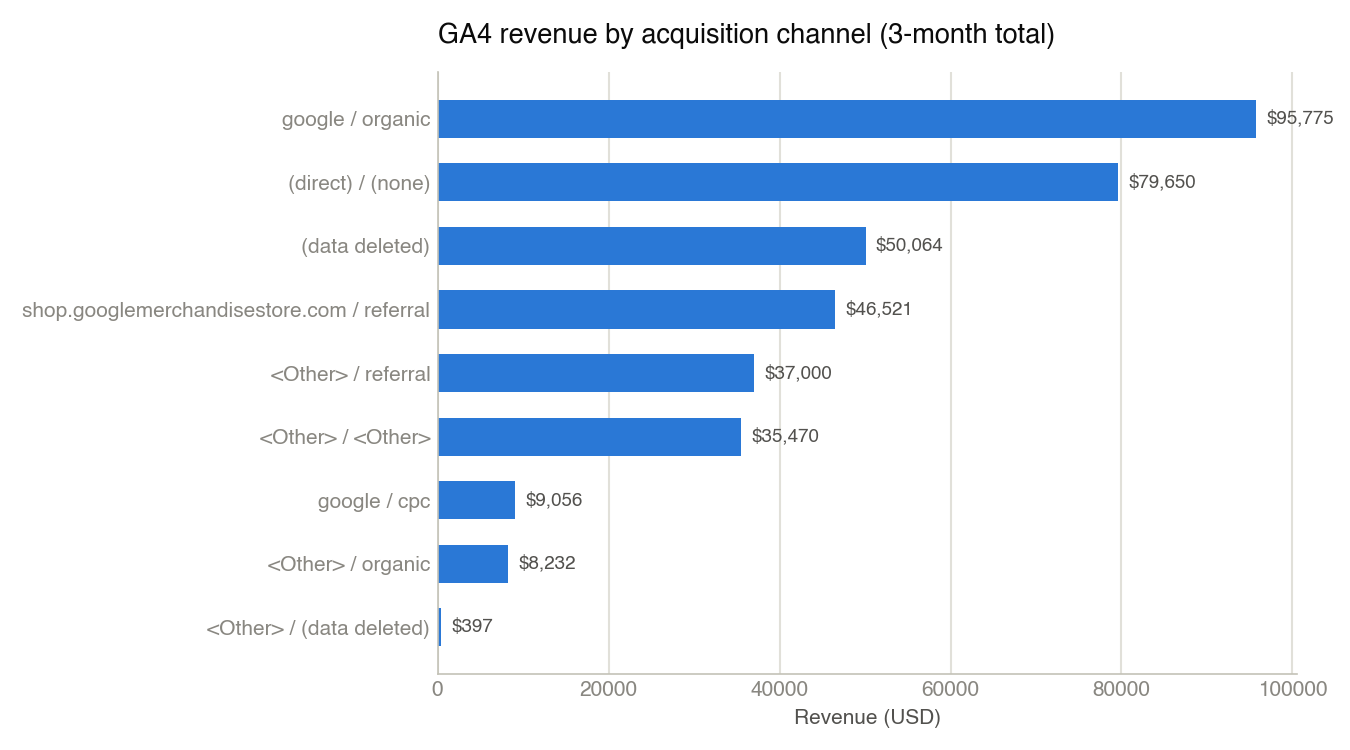
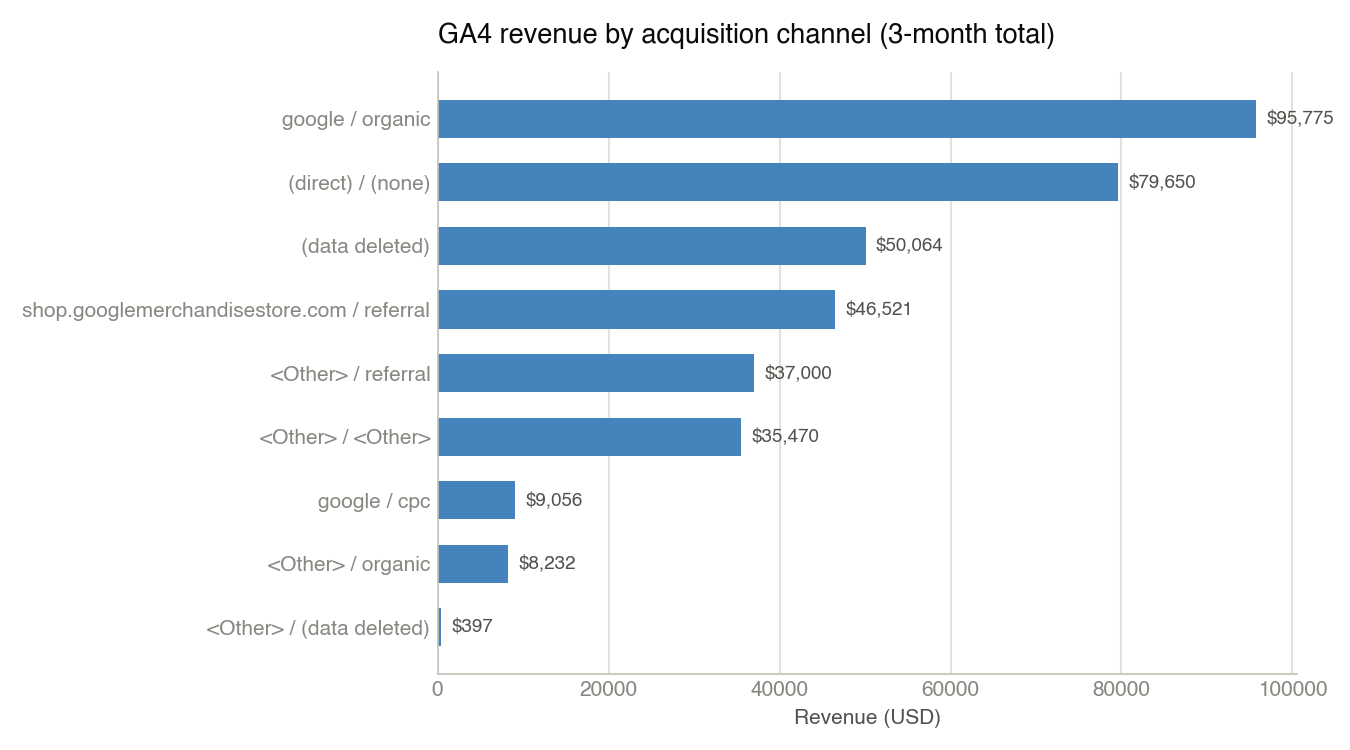
Switch all chart visualizations to a validated Morandi palette
Dusty blue/terracotta/greige replacing the prior saturated blue/red set, in both the matplotlib PNGs (analysis/make_charts.py) and the HTML dashboard's CSS tokens + SVG chart fills. Every color pair that appears together on a chart was checked against the dataviz skill's six-check validator (chroma floor, CVD separation, normal-vision floor, contrast) for both light and dark mode.

diff --git a/dashboard/index.html b/dashboard/index.html
@@ -15,13 +15,13 @@
     --ink-muted: #848d9c;
     --border: #dee2e8;
     --border-strong: #c5cbd4;
-    --accent: #2a78d6;
+    --accent: #2b6aa1;
     --accent-ink: #ffffff;
-    --accent-wash: #e7f0fc;
-    --red: #d03b3b;
-    --red-wash: #fbe9e9;
-    --blue-light: #9ec5f4;
-    --gray-mid: #c3c2b7;
+    --accent-wash: #e6f1fb;
+    --red: #914337;
+    --red-wash: #faeae6;
+    --blue-light: #70afea;
+    --gray-mid: #c5bcb1;
     --shadow: 0 1px 2px rgba(18,21,27,0.06), 0 4px 16px rgba(18,21,27,0.06);
     --radius: 10px;
     color-scheme: light;
@@ -36,13 +36,13 @@
       --ink-muted: #6d7686;
       --border: #262c38;
       --border-strong: #333b4a;
-      --accent: #5798e8;
+      --accent: #5b99d3;
       --accent-ink: #0b1220;
-      --accent-wash: #17263b;
-      --red: #e6716f;
-      --red-wash: #331c1d;
-      --blue-light: #3b5b82;
-      --gray-mid: #3a3f47;
+      --accent-wash: #162737;
+      --red: #ca7765;
+      --red-wash: #311e1a;
+      --blue-light: #335d83;
+      --gray-mid: #433e37;
       --shadow: 0 1px 2px rgba(0,0,0,0.3), 0 8px 24px rgba(0,0,0,0.35);
       color-scheme: dark;
     }
@@ -56,13 +56,13 @@
     --ink-muted: #6d7686;
     --border: #262c38;
     --border-strong: #333b4a;
-    --accent: #5798e8;
+    --accent: #5b99d3;
     --accent-ink: #0b1220;
-    --accent-wash: #17263b;
-    --red: #e6716f;
-    --red-wash: #331c1d;
-    --blue-light: #3b5b82;
-    --gray-mid: #3a3f47;
+    --accent-wash: #162737;
+    --red: #ca7765;
+    --red-wash: #311e1a;
+    --blue-light: #335d83;
+    --gray-mid: #433e37;
     --shadow: 0 1px 2px rgba(0,0,0,0.3), 0 8px 24px rgba(0,0,0,0.35);
     color-scheme: dark;
   }
@@ -522,8 +522,11 @@
     });
   }
 
-  const BLUE = "#2a78d6", BLUE_DARK = "#1c5cab", BLUE_MID = "#5598e7", BLUE_LIGHT = "#86b6ef";
-  const RED = "#d03b3b", RED_LIGHT = "#e88f8f", GRAY = "#c3c2b7";
+  // Morandi palette — dusty, low-chroma hues, validated against the dataviz
+  // skill's six checks (chroma floor, CVD separation, normal-vision floor,
+  // contrast) for every pair actually shown together on a chart.
+  const BLUE = "#4583bc", BLUE_DARK = "#12568b", BLUE_MID = "#5b99d3", BLUE_LIGHT = "#70afea";
+  const RED = "#914337", RED_LIGHT = "#cb7867", GRAY = "#c5bcb1";
 
   // 1. Funnel
   verticalBars("chart-funnel", {

diff --git a/analysis/make_charts.py b/analysis/make_charts.py
@@ -12,12 +12,17 @@ GRIDLINE = "#e1e0d9"
 BASELINE = "#c3c2b7"
 SURFACE = "#ffffff"
 
+# Morandi palette — dusty, low-chroma hues, still validated against the
+# dataviz skill's six checks (chroma floor, CVD separation, normal-vision
+# floor, contrast) at every step actually paired on a chart. See
+# analysis/MORANDI_PALETTE.md for the validator output this was checked against.
 # Ordinal blue ramp (funnel stages) light->dark, step 250/350/450/550
-ORDINAL_BLUE = ["#86b6ef", "#5598e7", "#2a78d6", "#1c5cab"]
-CAT_BLUE = "#2a78d6"
-DIVERGING_RED = ["#d03b3b", "#e88f8f"]  # critical-ish red, lighter red
-DIVERGING_GRAY = "#c3c2b7"
-DIVERGING_BLUE = ["#9ec5f4", "#2a78d6"]  # light blue, blue
+ORDINAL_BLUE = ["#70afea", "#5b99d3", "#4583bc", "#2b6aa1"]
+CAT_BLUE = "#4583bc"
+DIVERGING_RED = ["#914337", "#cb7867"]  # dusty brick (extreme), lighter terracotta
+DIVERGING_GRAY = "#c5bcb1"  # warm greige
+DIVERGING_BLUE = ["#70afea", "#4583bc"]  # light dusty blue, dusty blue
+BLUE_DARK = "#12568b"  # step 600, for single-item highlights (SP, 1500km+)
 
 plt.rcParams["font.family"] = "sans-serif"
 plt.rcParams["font.sans-serif"] = ["Helvetica", "Arial", "DejaVu Sans"]
@@ -104,7 +109,7 @@ pct_late = [21.4, 17.4, 15.2, 13.9, 13.8, 12.2, 12.2, 12.1, 11.2, 10.7, 10.4, 9.
 pairs = sorted(zip(states, pct_late), key=lambda p: p[1])
 states_sorted = [p[0] for p in pairs]
 pct_sorted = [p[1] for p in pairs]
-colors = [CAT_BLUE if s != "SP" else "#1c5cab" for s in states_sorted]
+colors = [CAT_BLUE if s != "SP" else BLUE_DARK for s in states_sorted]
 ax.barh(states_sorted, pct_sorted, color=colors, height=0.65)
 ax.set_xlabel("% of delivered orders that arrived late")
 ax.set_title("Delivery lateness by state, all 27 states with 30+ orders", color=INK_PRIMARY, fontsize=13, loc="left", pad=14)
@@ -142,7 +147,7 @@ fig, ax = plt.subplots(figsize=(9, 5), dpi=150)
 fig.patch.set_facecolor(SURFACE)
 buckets = ["Under 50km\n(same metro)", "50-300km", "300-800km", "800-1500km", "1500km+"]
 pct_late_by_dist = [4.4, 5.0, 7.0, 7.5, 11.7]
-bars = ax.bar(buckets, pct_late_by_dist, color=ORDINAL_BLUE + [ "#1c5cab"], width=0.6)
+bars = ax.bar(buckets, pct_late_by_dist, color=ORDINAL_BLUE + [BLUE_DARK], width=0.6)
 ax.set_ylabel("% of delivered orders that arrived late")
 ax.set_title("Delivery lateness vs. seller-customer distance", color=INK_PRIMARY, fontsize=13, loc="left", pad=14)
 ax.yaxis.grid(True, color=GRIDLINE, linewidth=1)
